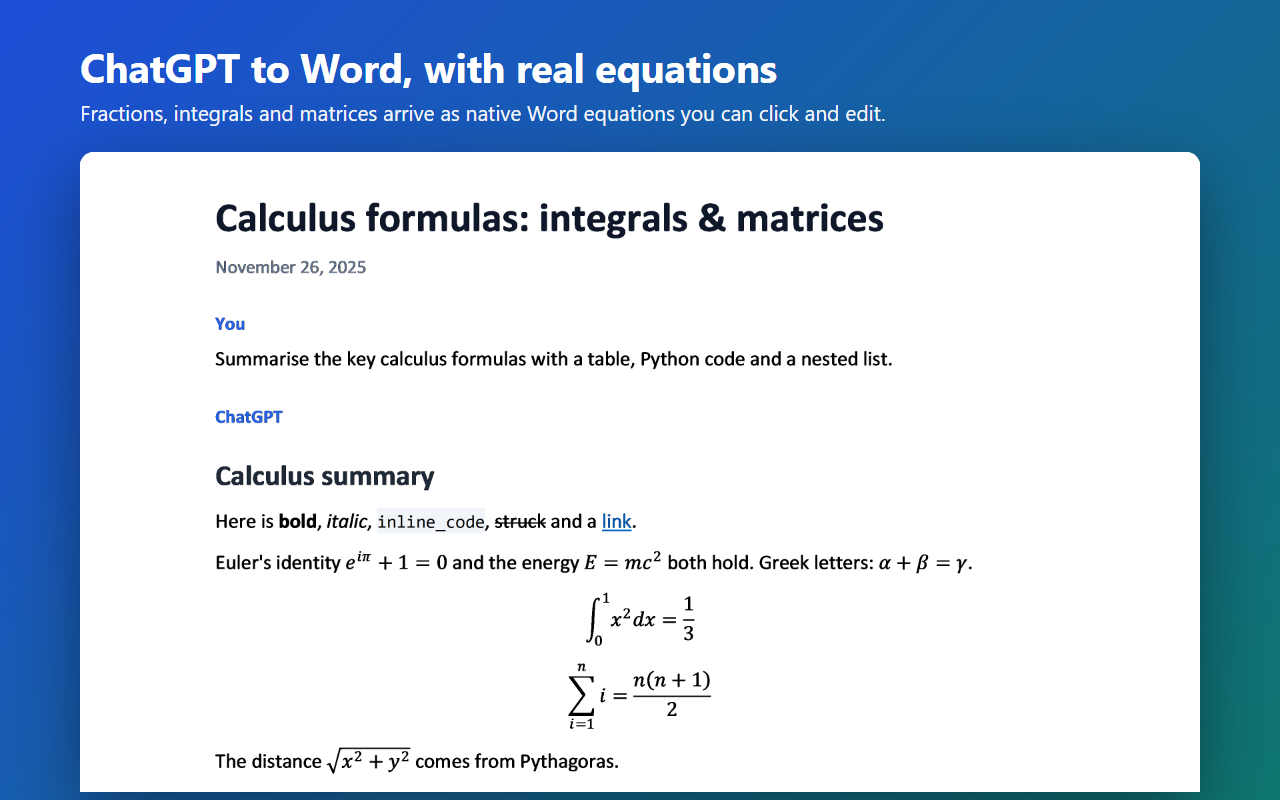
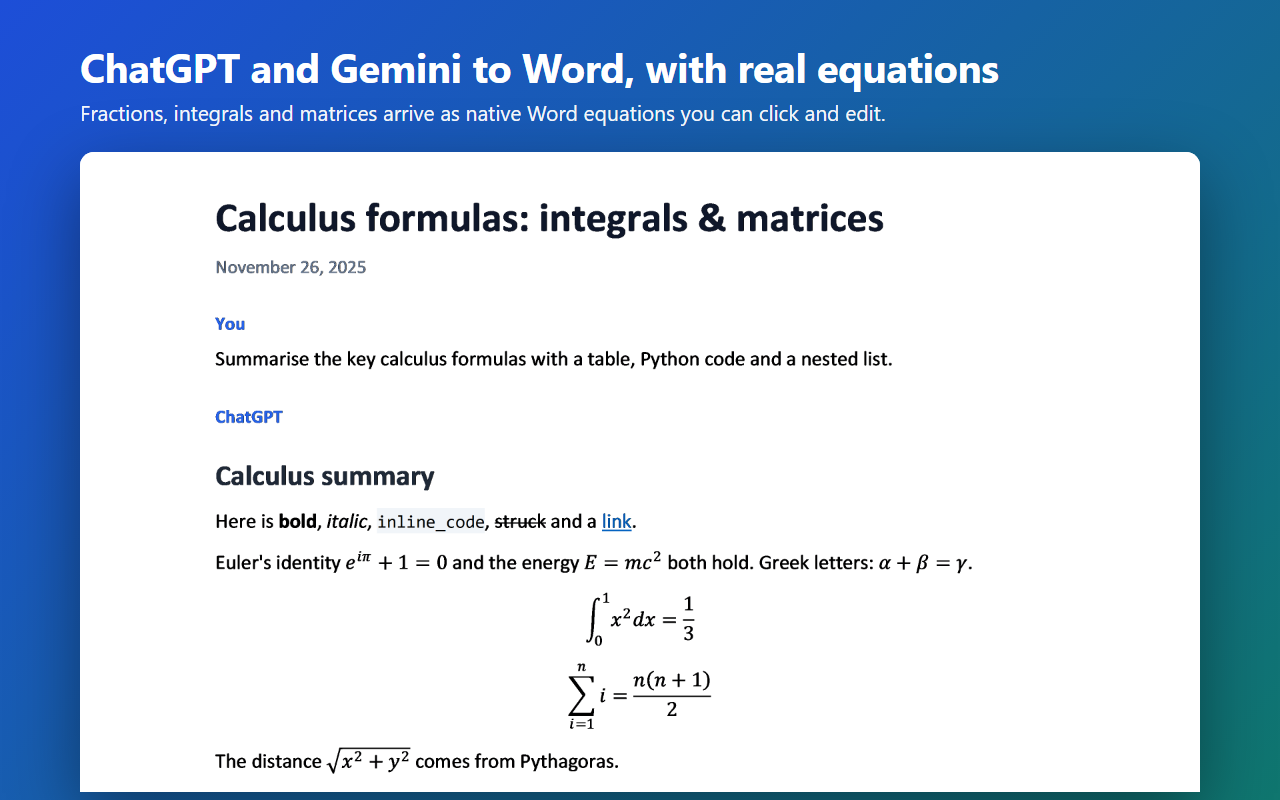
DocShift is now one extension for ChatGPT and Gemini

Changed region(s): [[0.1875, 0.0625, 0.7812, 0.125]]

diff --git a/index.html b/index.html
@@ -32,9 +32,9 @@
     <ul>
       <li>Word, PDF, Markdown, HTML and plain text</li>
       <li>On ChatGPT it reads the conversation data rather than the page layout, so a site redesign does not break it</li>
-      <li>Free: 3 exports a day in full quality. Pro: unlimited, $2.99 a month or $19.99 once</li>
+      <li>One extension for both sites. Free: 3 exports a day in full quality. Pro: unlimited, $2.99 a month or $19.99 once</li>
     </ul>
-    <div class="cta"><span class="btn soon">DocShift for ChatGPT · coming soon</span><span class="btn soon">DocShift for Gemini · coming soon</span></div>
+    <div class="cta"><span class="btn soon">Add DocShift to Chrome · coming soon</span></div>
   </div>
 </section>
 

diff --git a/privacy.html b/privacy.html
@@ -13,7 +13,7 @@
 
 <h1>Privacy policy</h1>
 <p class="lead">Our extensions do their work inside your browser. We run no servers that receive your data, and the extensions contain no analytics, no tracking and no ads.</p>
-<p class="muted">Effective date: 26 November 2026. Applies to AdPluck, PicShift and DocShift (ChatGPT to Word, Gemini to Word).</p>
+<p class="muted">Effective date: 26 November 2026. Applies to AdPluck, PicShift and DocShift.</p>
 
 <h2>What we collect</h2>
 <p>Nothing. The extensions do not send us page content, browsing history, files, usage statistics or identifiers. We have no way to see what you do with them.</p>
